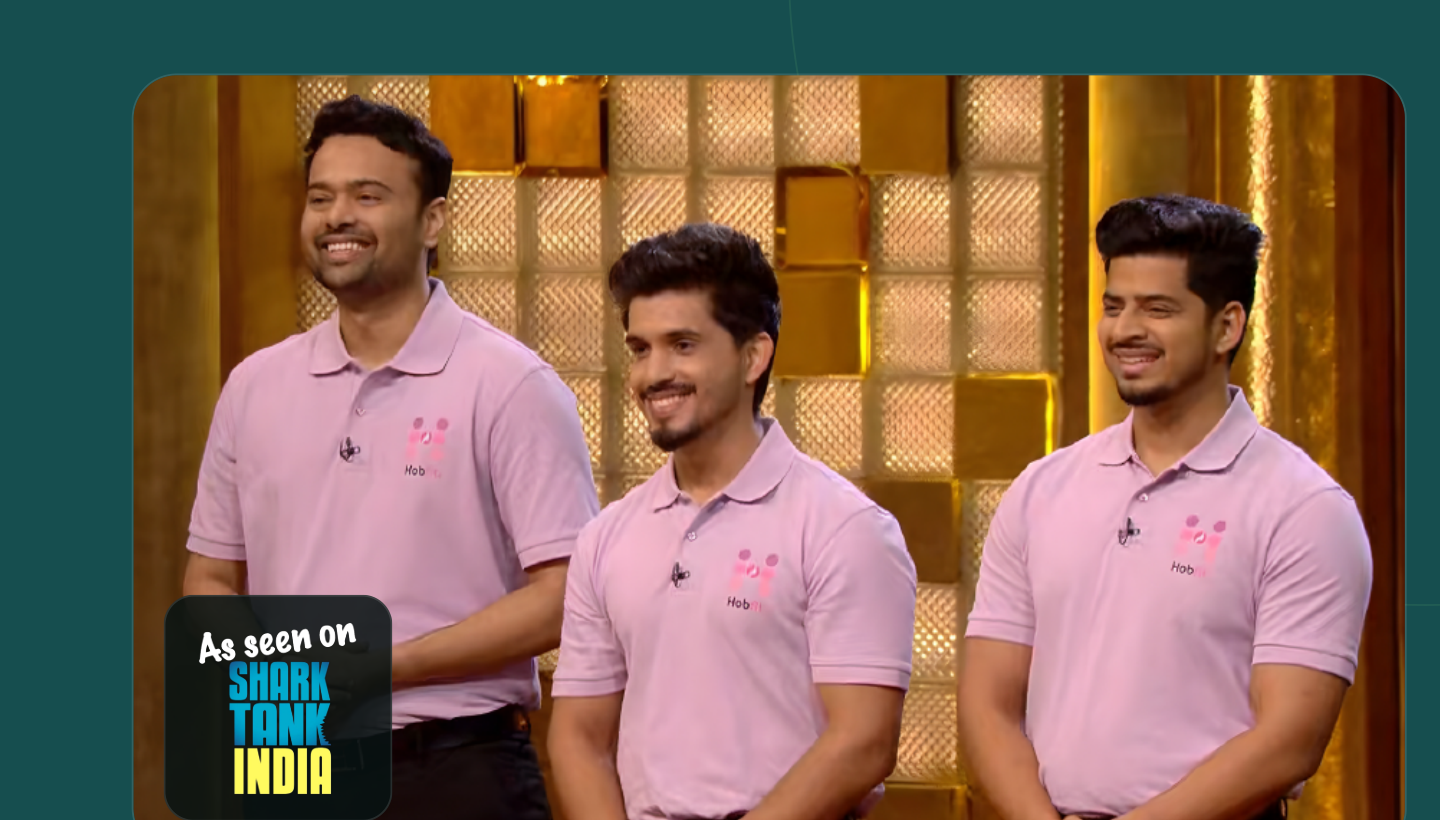
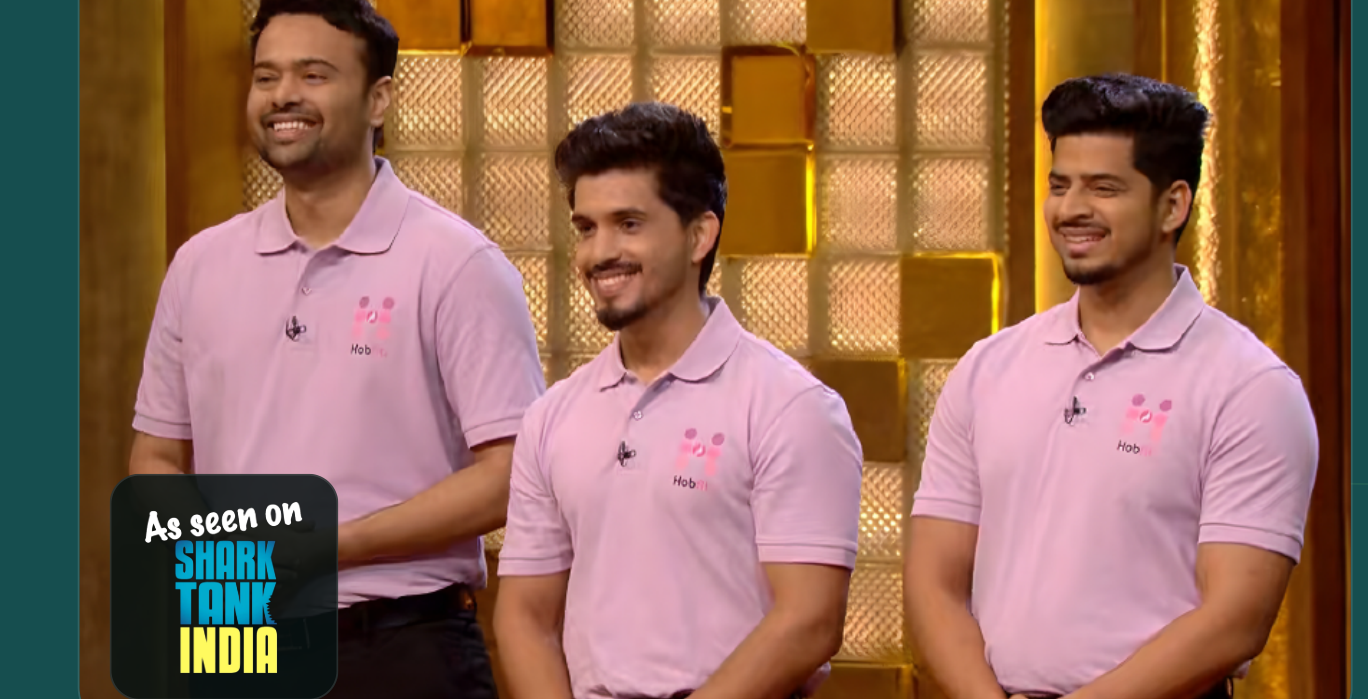
Polish case study hero: bigger CTA, remove Back to Results, fill image frame
- 'Book a Call' button enlarged (min-h 58-64, larger padding/text).
- Removed redundant 'Back to Results' secondary button (one CTA).
- Removed dark teal frame padding/bg so the hero image fills the
  rounded rectangle edge-to-edge; lighter border.
- Re-cropped Hobfit Shark Tank image tighter so the photo fills the
  frame instead of floating in teal padding.
Applies to all 4 case study pages via the shared template.

diff --git a/app/results/[slug]/page.tsx b/app/results/[slug]/page.tsx
@@ -107,18 +107,19 @@ export default async function CaseStudyPage({ params }: CaseStudyPageProps) {
                 </div>
               ))}
             </div>
-            <div className="mt-8 flex flex-col gap-3 sm:flex-row">
-              <ButtonLink href="/free-audit" variant="primary">Book a Call</ButtonLink>
-              <ButtonLink href="/results" variant="secondary">Back to Results</ButtonLink>
+            <div className="mt-8">
+              <ButtonLink href="/free-audit" variant="primary" className="min-h-[58px] rounded-md px-8 text-base sm:min-h-[64px] sm:px-10 sm:text-lg">
+                Book a Call
+              </ButtonLink>
             </div>
           </div>
-          <div className="overflow-hidden rounded-[18px] border border-[#0d3a3c] bg-[#0e3d3f] p-3 shadow-[0_22px_70px_rgba(22,78,80,0.18)]">
+          <div className="overflow-hidden rounded-[18px] border border-[#CDEECD] shadow-[0_22px_70px_rgba(22,78,80,0.14)]">
             <Image
               src={study.heroImage.src}
               alt={study.heroImage.alt}
-              width={1200}
-              height={750}
-              className="h-auto w-full rounded-[12px]"
+              width={1368}
+              height={699}
+              className="block h-auto w-full"
               priority
             />
           </div>